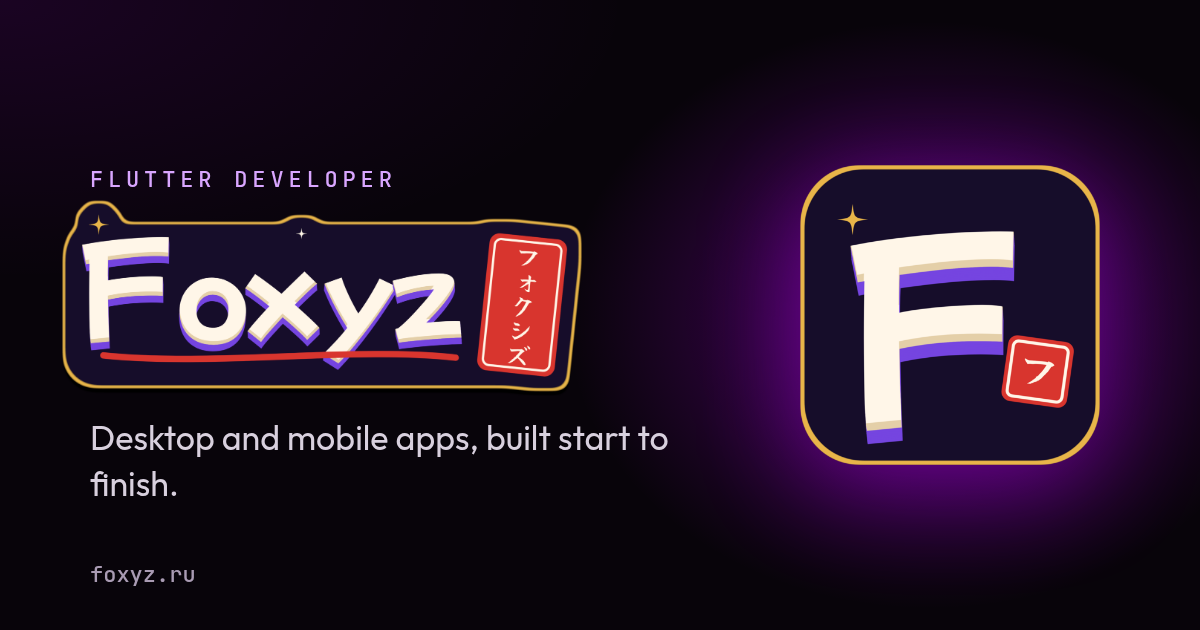
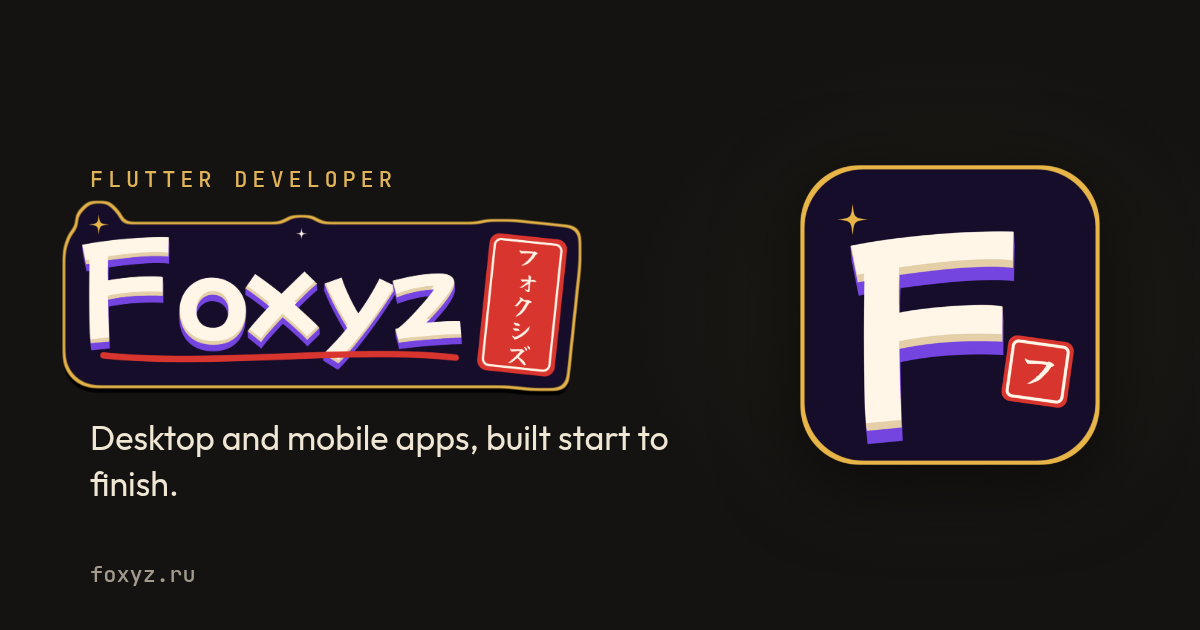
Use the sumi theme; match CV, embed card, theme colour and link preview

Changed region(s): [[0.555, 0.1508, 0.9867, 0.8746], [0.0617, 0.2714, 0.3392, 0.3016], [0.0617, 0.9048, 0.1542, 0.9349]]

diff --git a/src/lib/data.ts b/src/lib/data.ts
@@ -97,7 +97,7 @@ export interface App {
 }
 
 export interface SiteData {
-  /** theme: 'neon' (original), 'ink', 'washi' or 'plum' (see global.css). */
+  /** theme: 'sumi' (in use), or 'neon', 'ink', 'washi', 'plum', 'dusk', 'aizome', 'kinari' (see global.css). */
   site: { url: string; title: string; theme?: string; description: Text; sourceRepo?: string };
   /** Visitor stats. goatcounter: the account code ("foxyz" for foxyz.goatcounter.com); empty = no stats script. */
   analytics?: { goatcounter?: string };
